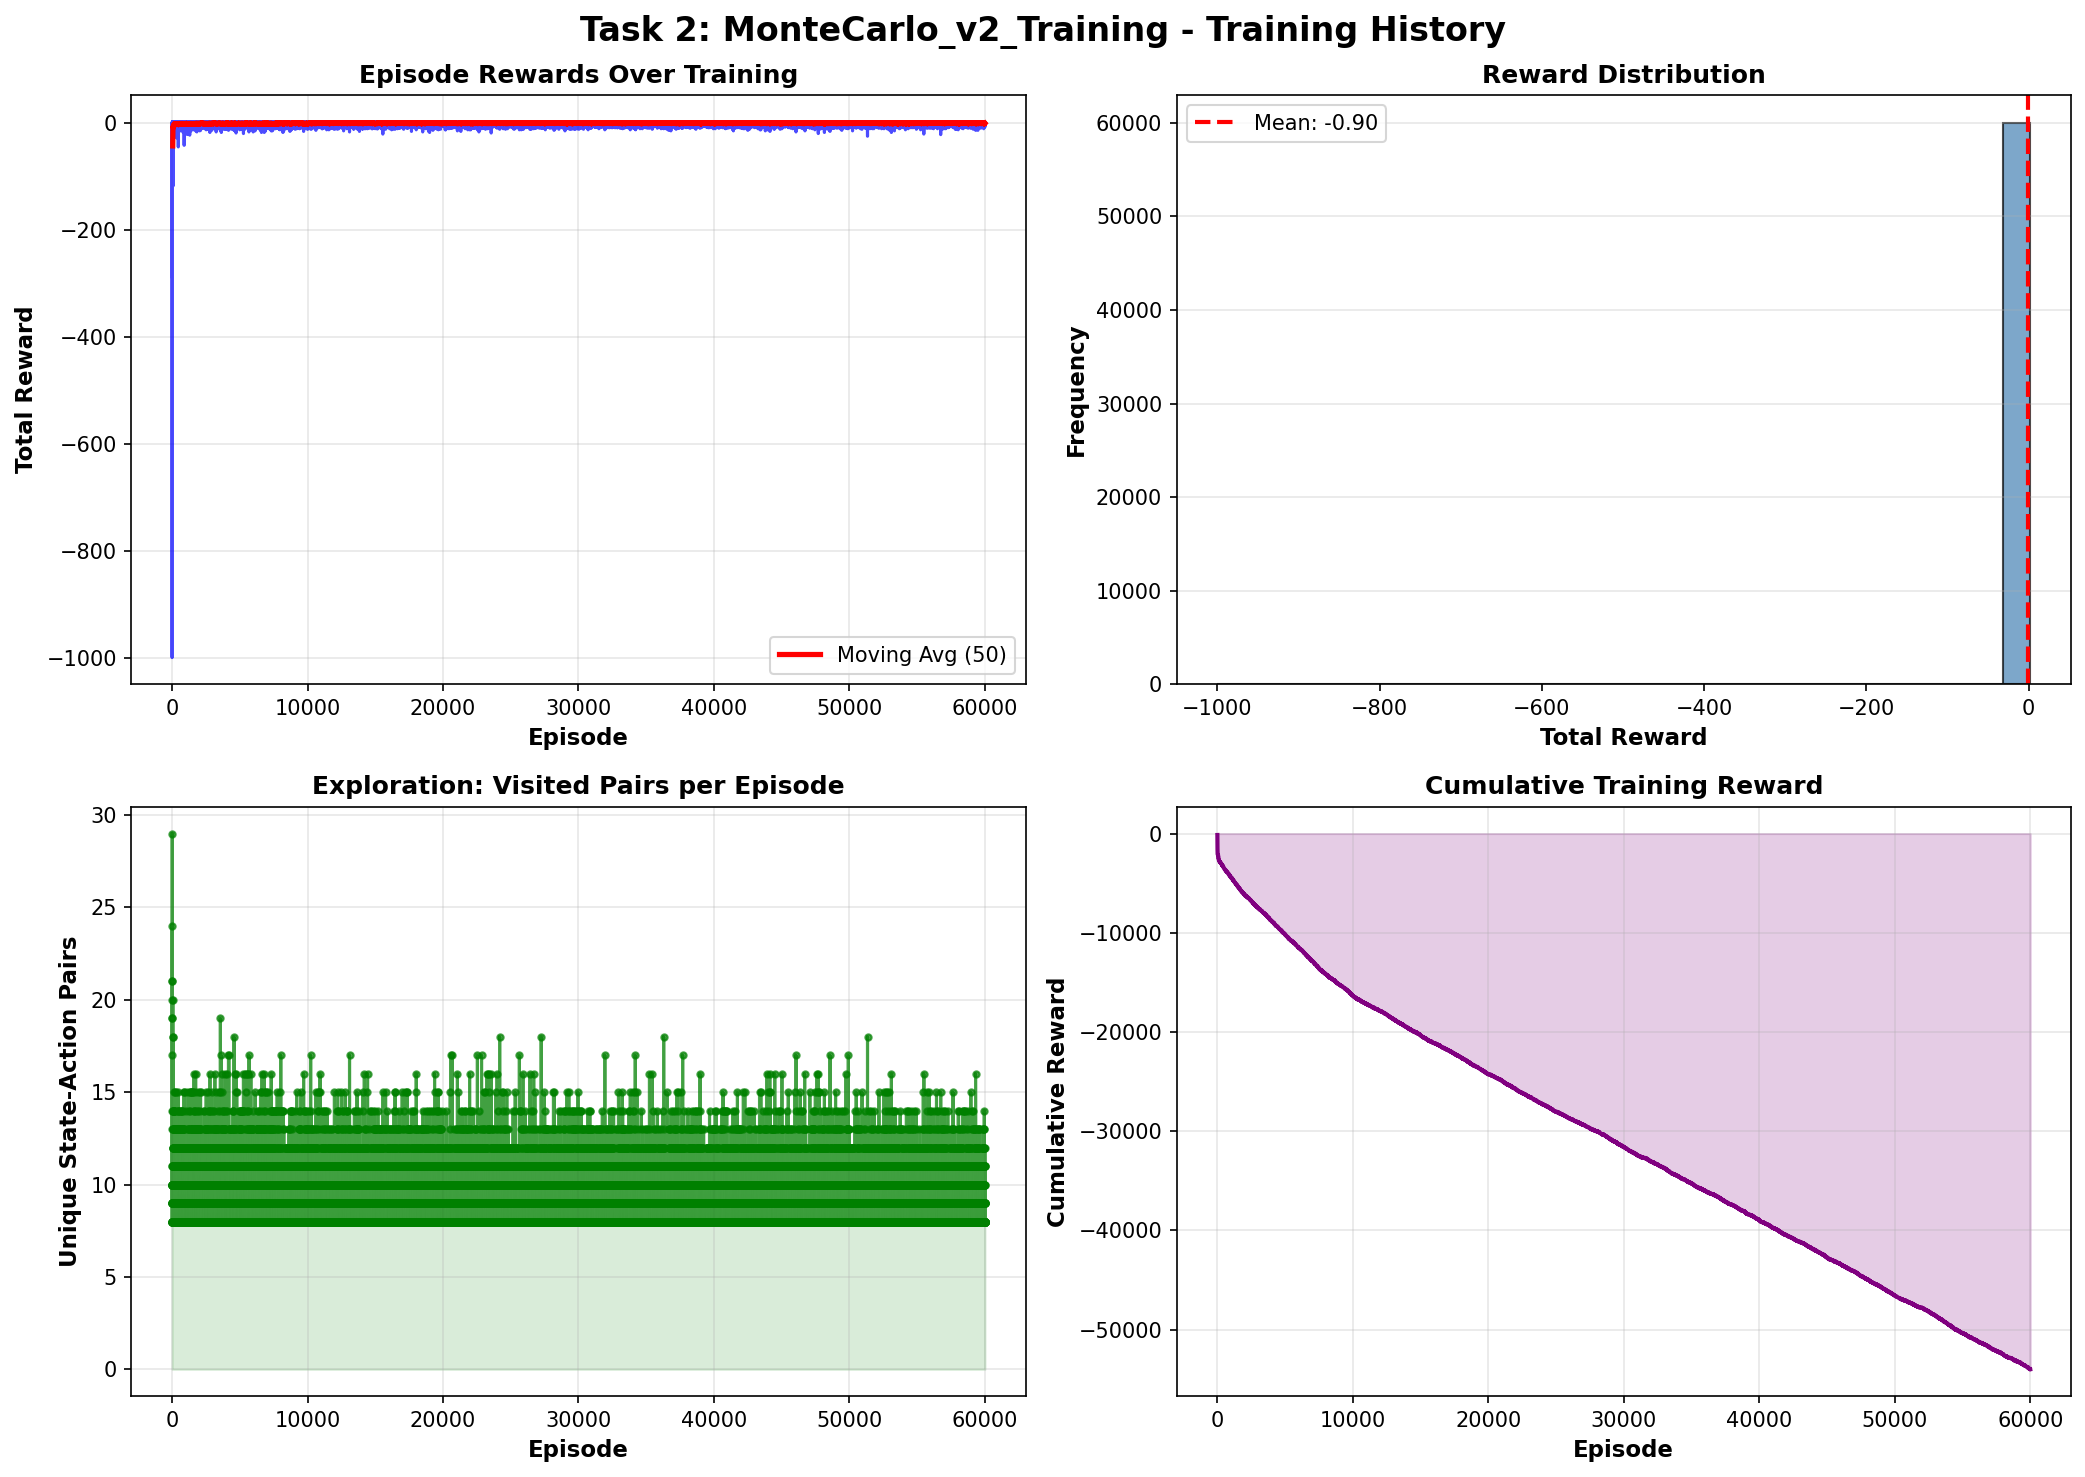
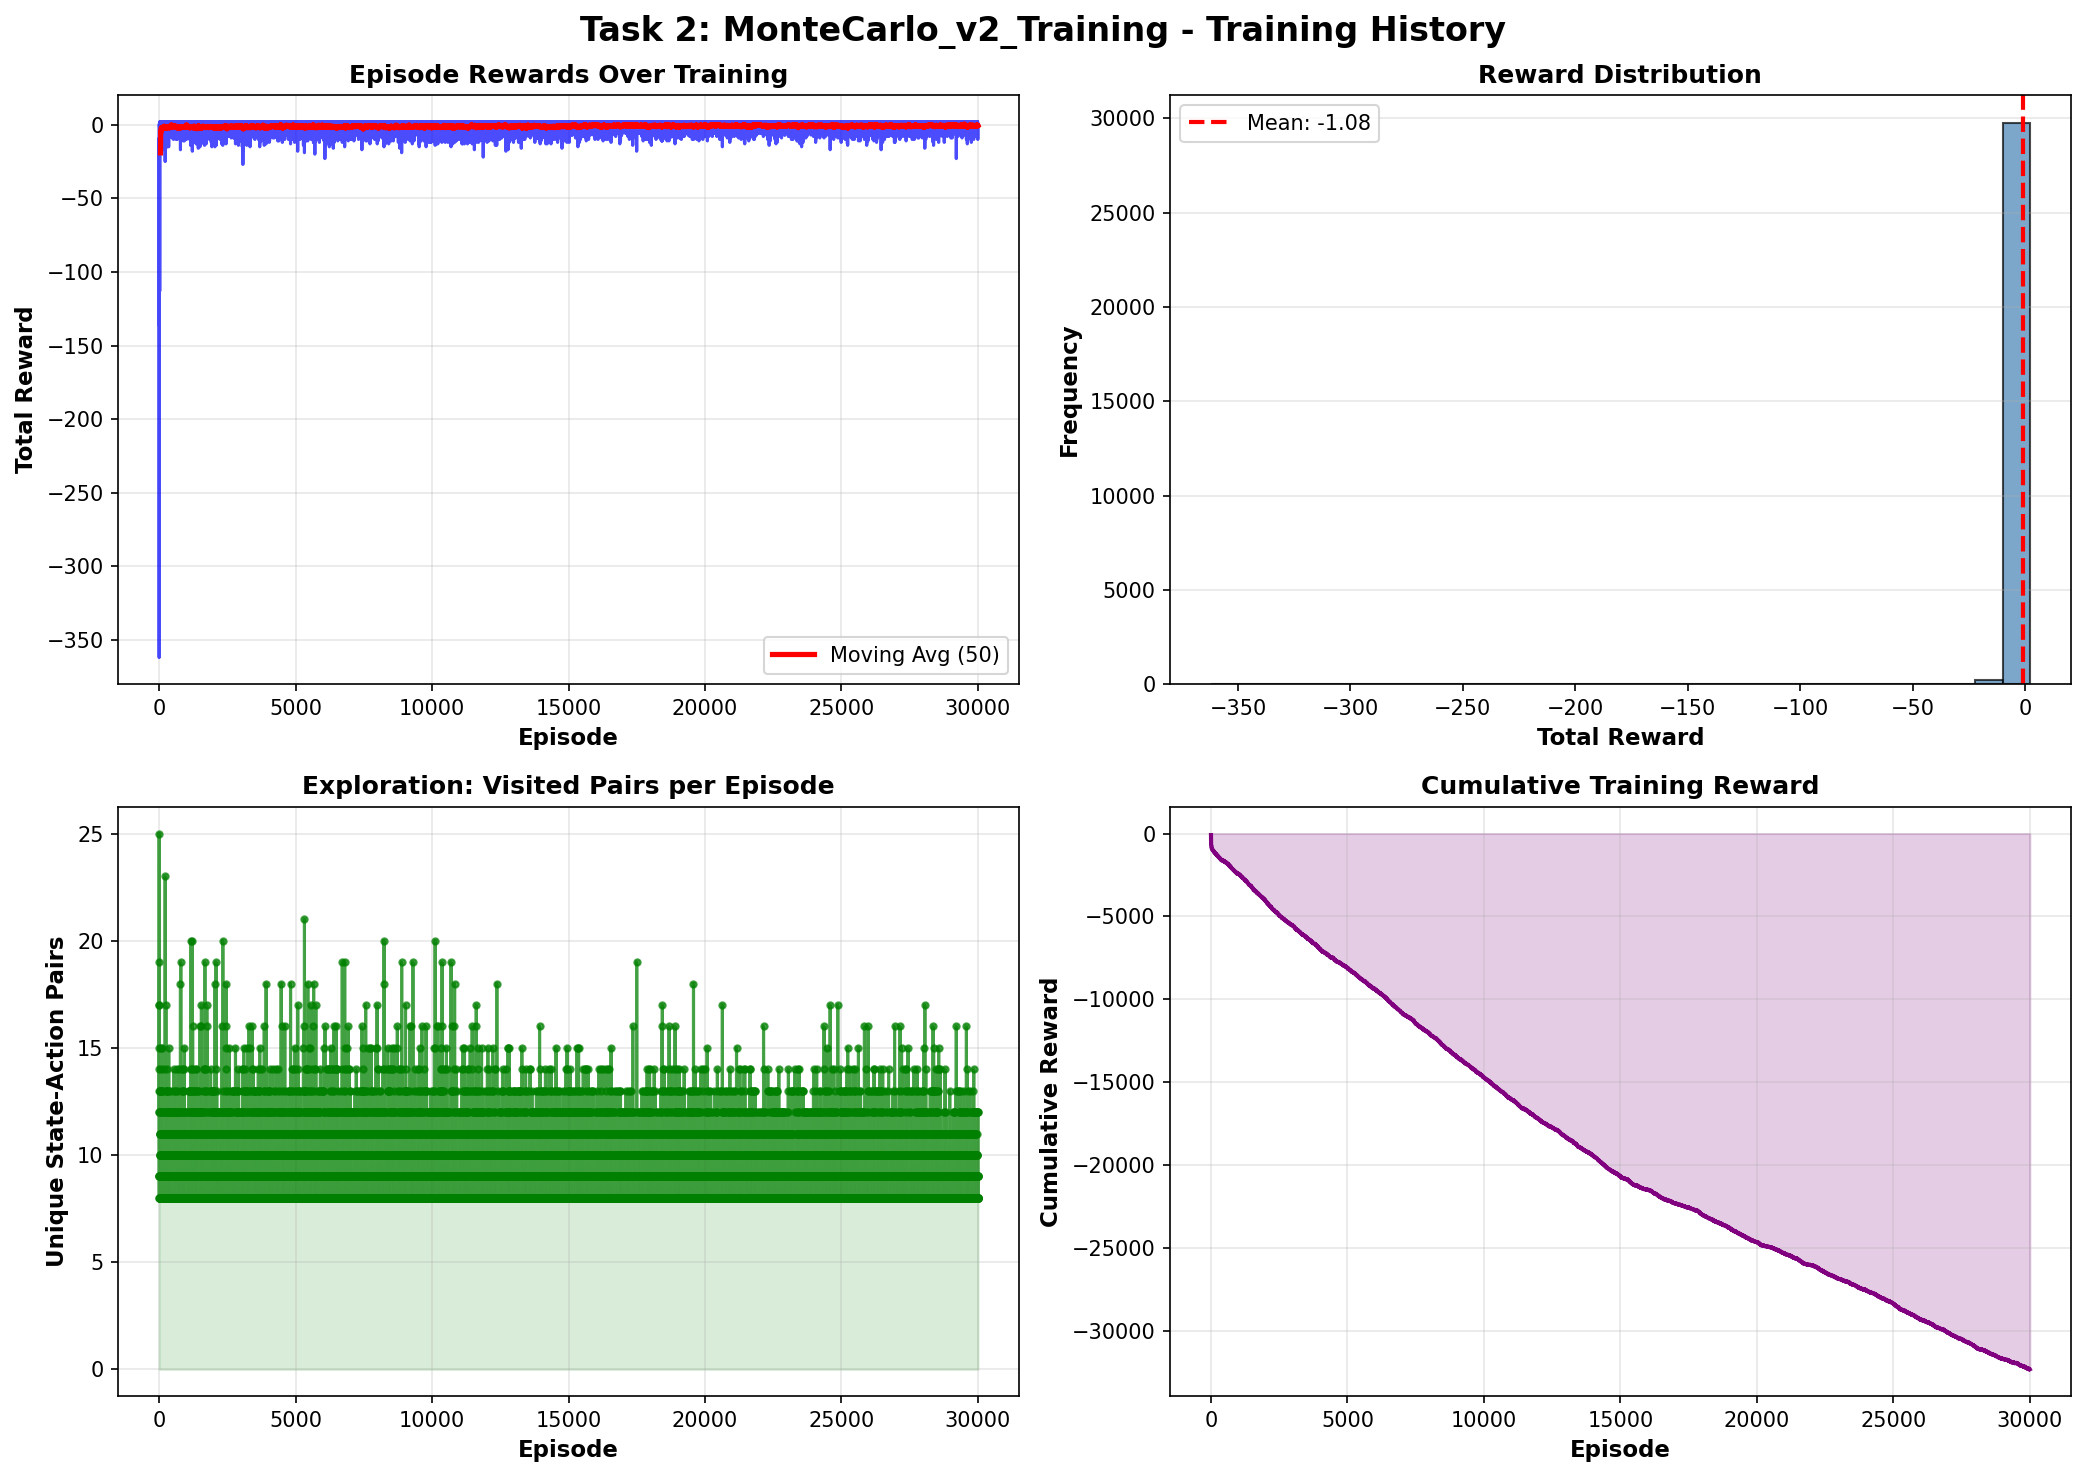
Revert "feat(visualization): update Monte Carlo parameters and outputs"
This reverts commit 105f10c4e3001970f3b94298a73578b1c5b3e521.

diff --git a/Lab1/part2/task2-2-v2/main.py b/Lab1/part2/task2-2-v2/main.py
@@ -303,7 +303,7 @@ def main():
     print("=" * 60 + "\n")
 
     Q, policy_mc, training_history, q_snapshots = monte_carlo_control(
-        num_episodes=60000, epsilon=0.1
+        num_episodes=30000, epsilon=0.1
     )
 
     q_state_action, v_state = q_values_to_array(Q)
